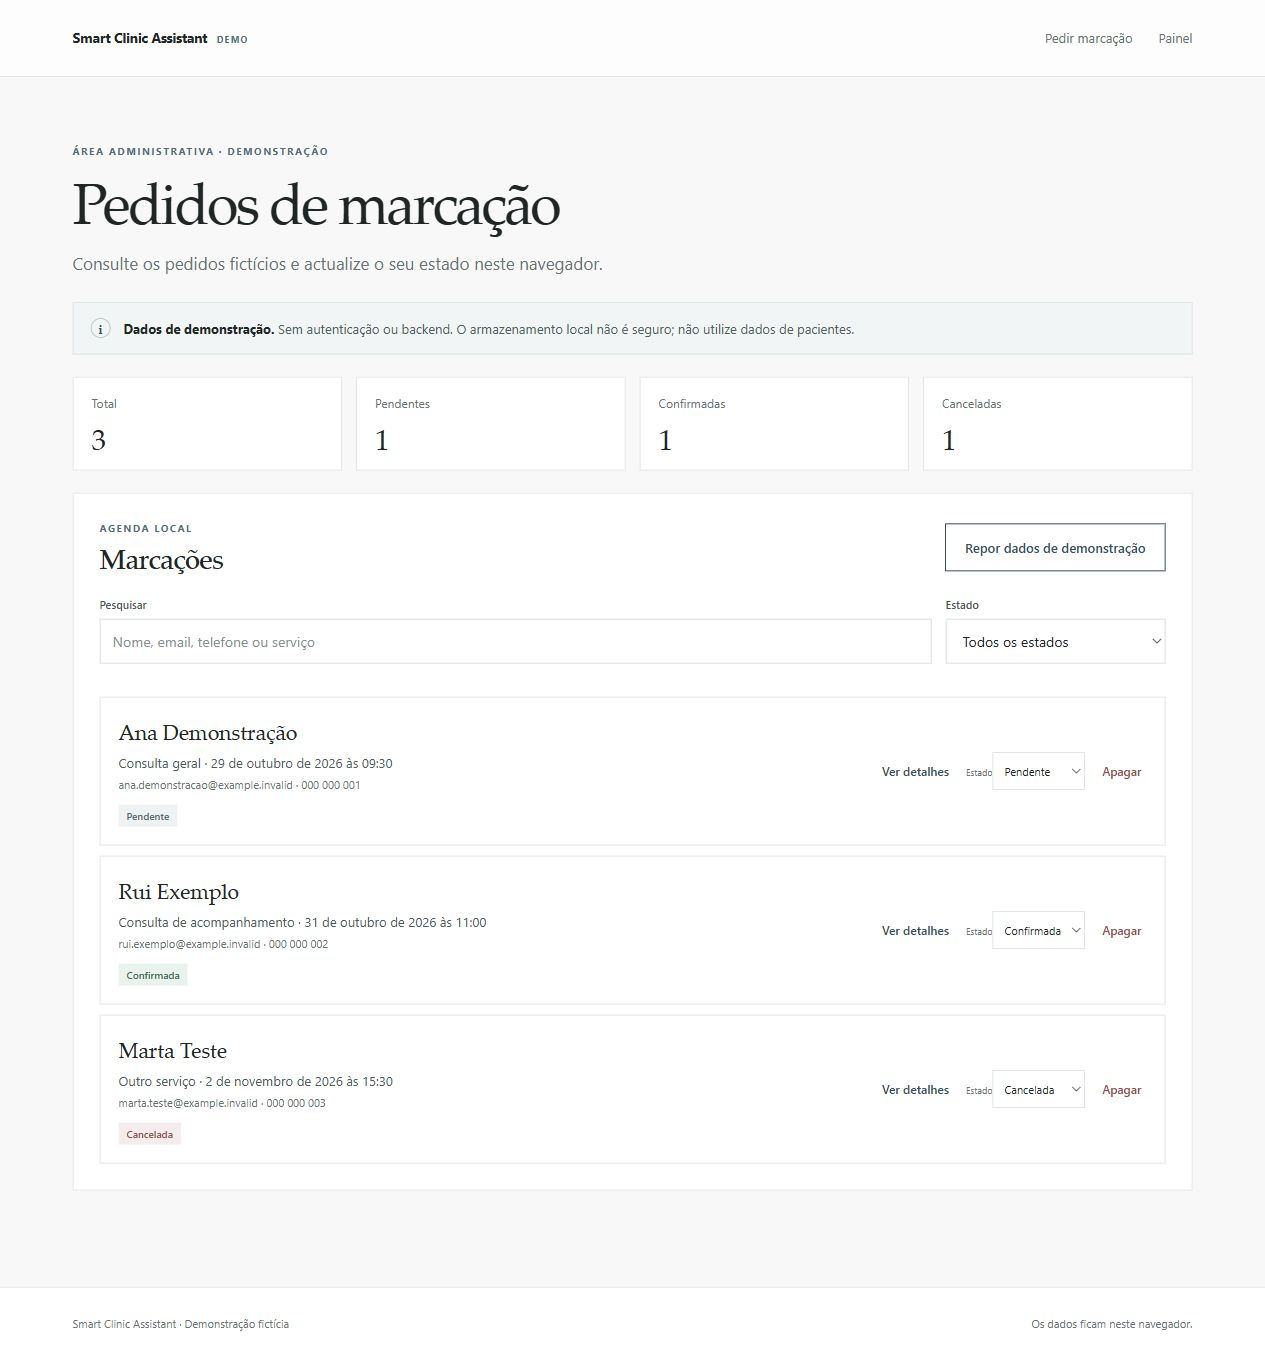
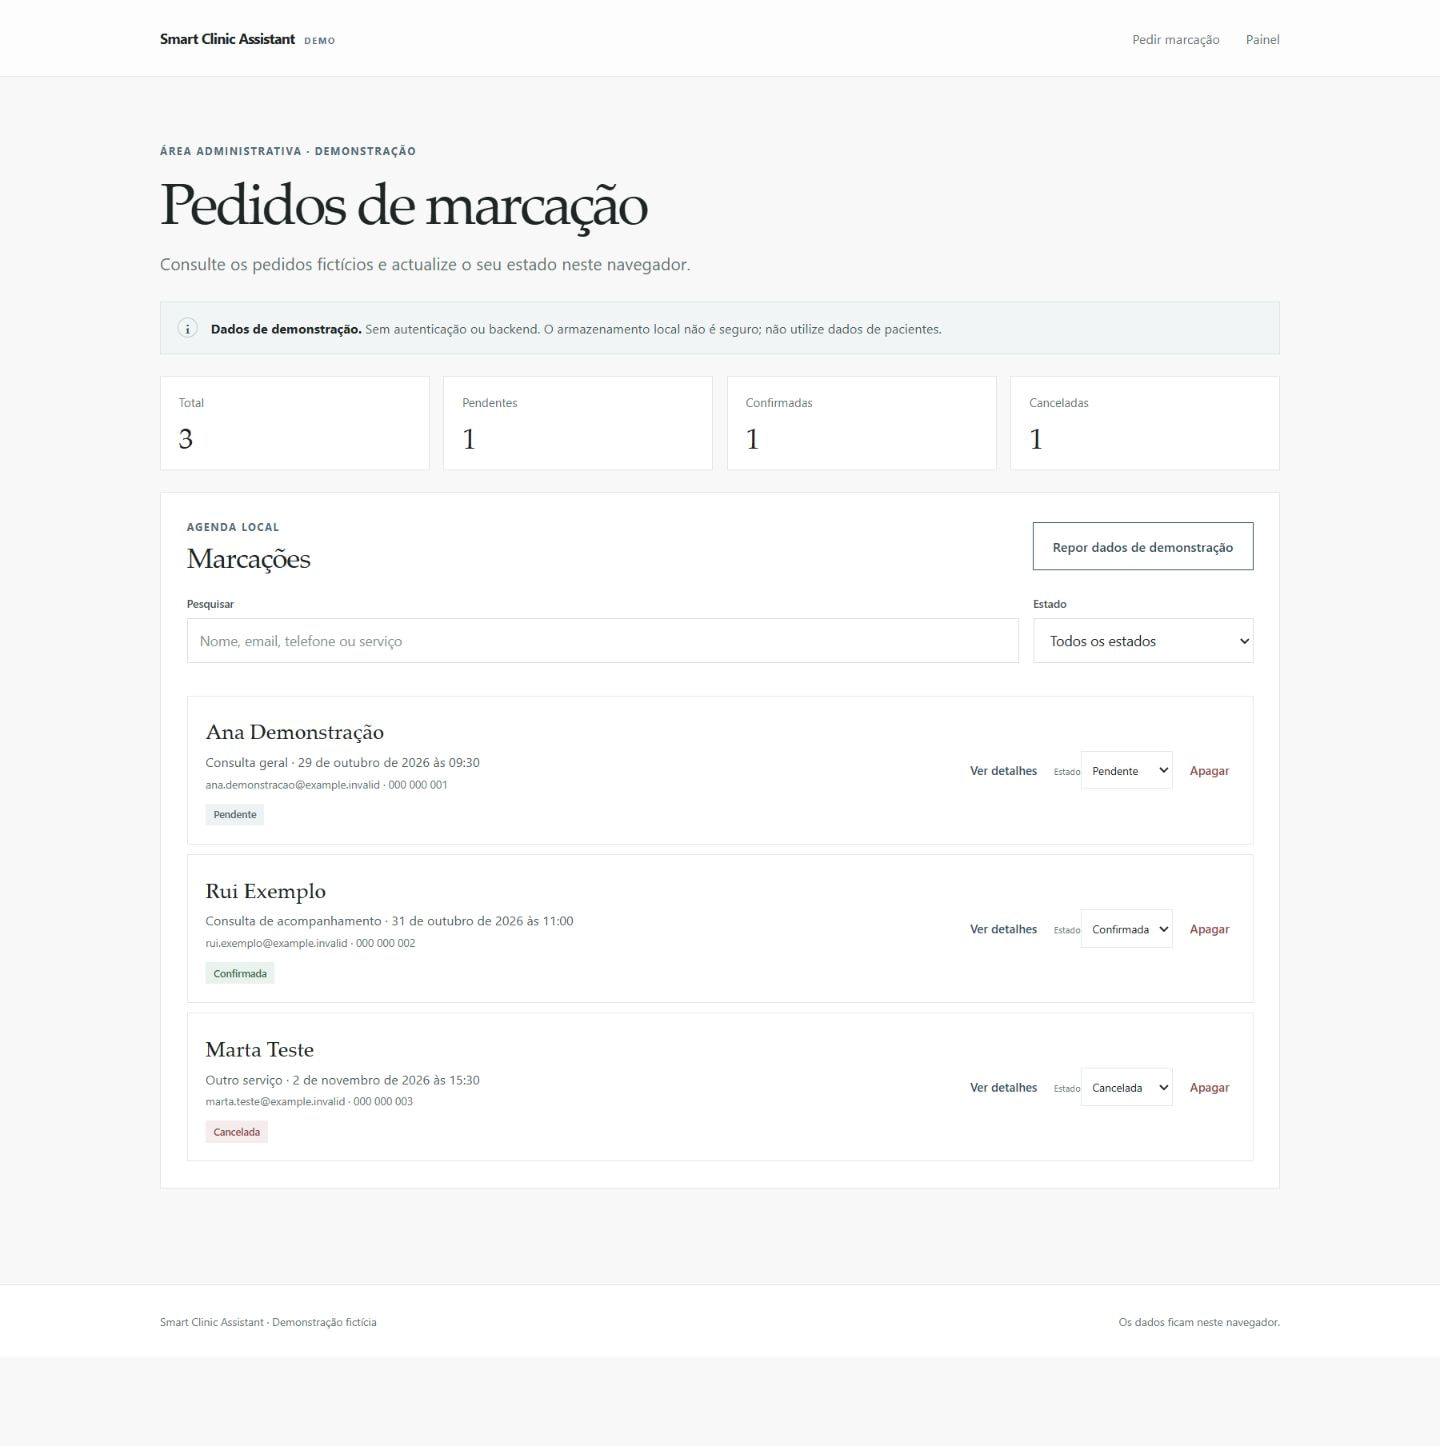
Improve Smart Clinic screenshot consistency

diff --git a/src/content/projects/pt/smart-clinic-assistant.md b/src/content/projects/pt/smart-clinic-assistant.md
@@ -11,17 +11,17 @@ tags:
   - localStorage
 images:
   - src: /images/projects/smart-clinic-form.jpg
-    width: 1265
-    height: 1432
-    alt: Formulário completo de pedido de marcação, com contacto, serviço, disponibilidade e aviso de demonstração local.
+    width: 1440
+    height: 1446
+    alt: Formulário completo de pedido de marcação, com campos de contacto, serviço, data, hora e mensagem administrativa, e aviso de demonstração fictícia.
   - src: /images/projects/smart-clinic-dashboard.jpg
-    width: 1265
-    height: 1359
-    alt: Painel com contadores, pesquisa, filtro por estado e três pedidos fictícios em estados distintos.
+    width: 1440
+    height: 1446
+    alt: Dashboard administrativo completo, com quatro contadores, pesquisa, filtro por estado e três pedidos fictícios, pendente, confirmado e cancelado.
   - src: /images/projects/smart-clinic-detail.jpg
-    width: 1265
-    height: 712
-    alt: Detalhe do pedido fictício de Ana Demonstração, com contacto, serviço, disponibilidade, estado e mensagem administrativa.
+    width: 1440
+    height: 1446
+    alt: Diálogo completo do pedido fictício de Ana Demonstração sobre o dashboard, com contacto de exemplo, serviço, data, hora, estado e preferência de contacto.
 ---
 
 ## Contexto e objectivo

diff --git a/src/content/projects/en/smart-clinic-assistant.md b/src/content/projects/en/smart-clinic-assistant.md
@@ -11,17 +11,17 @@ tags:
   - localStorage
 images:
   - src: /images/projects/smart-clinic-form.jpg
-    width: 1265
-    height: 1432
-    alt: Complete appointment request form with contact details, service, availability and a local demonstration notice.
+    width: 1440
+    height: 1446
+    alt: Complete appointment request form with contact, service, date, time and administrative message fields, plus a fictional demonstration notice.
   - src: /images/projects/smart-clinic-dashboard.jpg
-    width: 1265
-    height: 1359
-    alt: Dashboard with summary counts, search, a status filter and three fictional requests in different states.
+    width: 1440
+    height: 1446
+    alt: Complete admin dashboard with four summary counts, search, a status filter and three fictional requests, pending, confirmed and cancelled.
   - src: /images/projects/smart-clinic-detail.jpg
-    width: 1265
-    height: 712
-    alt: Details of Ana Demonstração's fictional request, including contact details, service, availability, status and an administrative message.
+    width: 1440
+    height: 1446
+    alt: Complete dialog for Ana Demonstração's fictional request over the dashboard, with example contact details, service, date, time, status and contact preference.
 ---
 
 ## Context and goal
